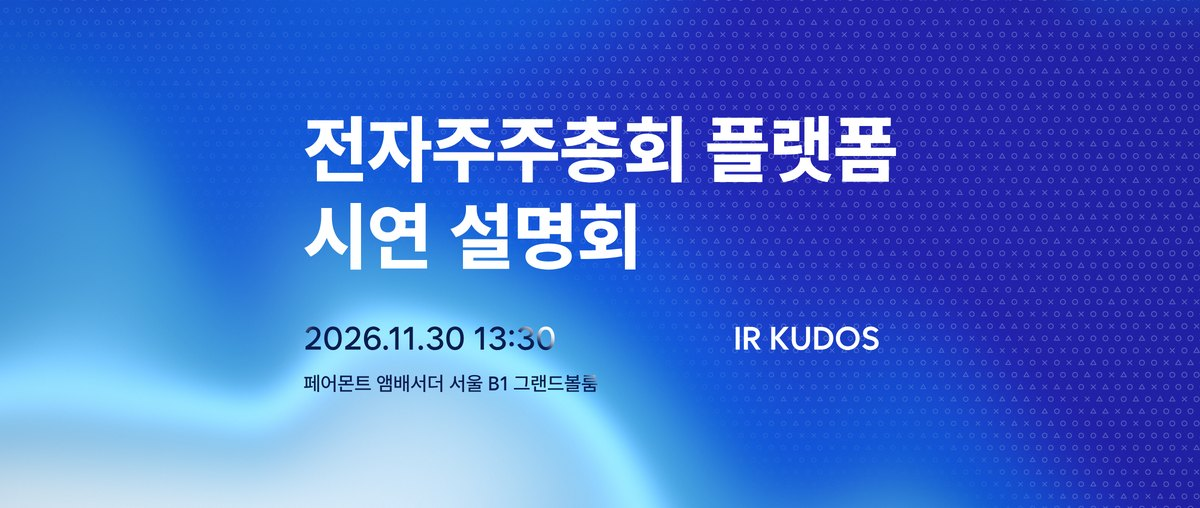
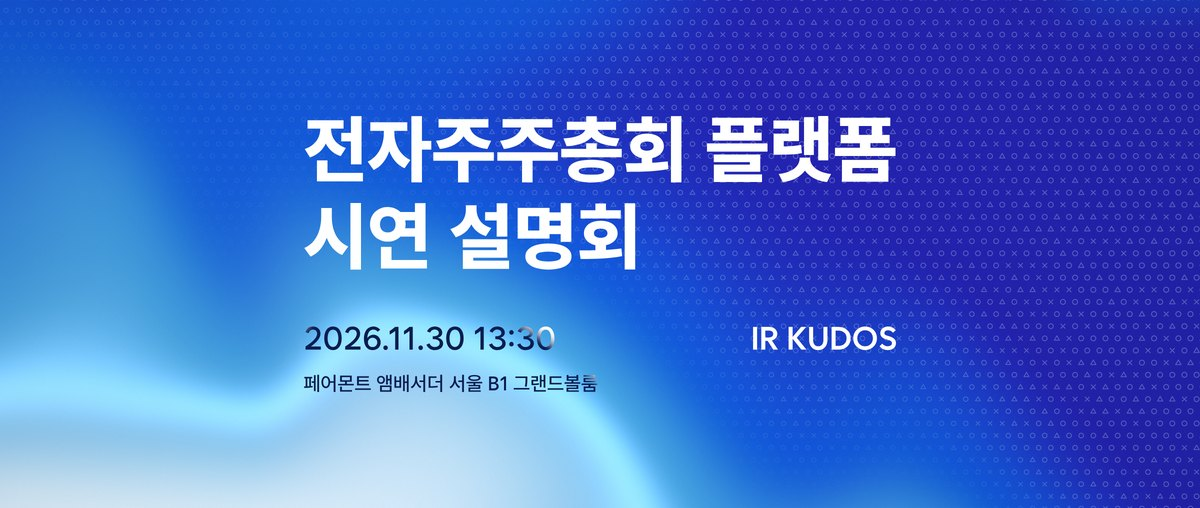
11.9 확인사항 반영: 신청 마감 11/27 18:00(서버 적용)·참가비 무료, 시연 범위(자동 계산·해외 주주·질의·발언·동의), 주주PASS 본인인증·NFC 등록 안내, 주차 지원 등록 안내, 발표자료 미배포, 운영자 취소 시 자동 메일 없음, 문의 메일 agm@, 타이틀 SVG 재교체
Claude-Session: https://claude.ai/code/session_01Mn7Nn1Mw9LaHJEmW4pK4Vg

diff --git a/index.html b/index.html
@@ -466,7 +466,7 @@ html.rg-lock{overflow:hidden}
   <section class="hero" aria-label="설명회 소개">
     <canvas id="glow" aria-hidden="true"></canvas>
     <div>
-      <h1 class="ttl"><img src="assets/title.svg?v=1109" width="566" height="264" alt="전자주주총회 플랫폼 시연 설명회 — 2026.11.30 13:30, 페어몬트 앰배서더 서울 지하 1층(B1) 그랜드볼룸, IR KUDOS"></h1>
+      <h1 class="ttl"><img src="assets/title.svg?v=1517" width="567" height="264" alt="전자주주총회 플랫폼 시연 설명회 — 2026.11.30 13:30, 페어몬트 앰배서더 서울 지하 1층(B1) 그랜드볼룸, IR KUDOS"></h1>
     </div>
   </section>
 
@@ -479,7 +479,7 @@ html.rg-lock{overflow:hidden}
         <p>IR큐더스가 전문가와 함께 개정 상법의 주요 내용과 전자주주총회 준비에 필요한 법률·실무 쟁점을 살펴봅니다.</p>
         <p>이어 주주명부와 의안 설정부터 출석 확인, 표결, 결과 집계까지 통합시스템의 운영 과정을 시연합니다. 참석자께서는 현장표결 앱 ‘주주PASS’를 활용해 모의 주주총회의 표결에 직접 참여하실 수 있습니다.</p>
       </div>
-      <p class="info"><span><b>일정</b>2026.11.30 (월) 13:30~18:00 (등록 13:00부터)</span><span><b>장소</b>페어몬트 앰배서더 서울 지하 1층(B1) 그랜드볼룸</span></p>
+      <p class="info"><span><b>일정</b>2026.11.30 (월) 13:30~18:00 (등록 13:00부터)</span><span><b>장소</b>페어몬트 앰배서더 서울 지하 1층(B1) 그랜드볼룸</span><span><b>신청 마감</b>11.27 (금) 18:00 · 참가비 무료</span></p>
       <div class="count" role="timer" aria-label="행사까지 남은 시간"><div><b id="cd-d">25</b><span>일</span></div><div><b id="cd-h">00</b><span>시간</span></div><div><b id="cd-m">00</b><span>분</span></div></div>
       <a class="btn" href="#register">사전등록하기</a>
     </div>
@@ -535,9 +535,9 @@ html.rg-lock{overflow:hidden}
         <p>모의 회사·주주·의안으로 주주총회 전 과정을 진행합니다.</p>
       </div>
       <ol class="stages">
-        <li><span class="st-n">01 사전 준비</span><h3>주주명부와 의안을 설정합니다</h3><ul><li>주주명부 등록, 주주별 의결권 확인</li><li>의안 설정</li><li>의결권 제한 반영</li></ul></li>
-        <li><span class="st-n">02 사전 의결권 관리</span><h3>사전 투표와 의결권 행사 현황을 관리합니다</h3><ul><li>의결권 대리행사 권유, 전자·서면투표 현황</li><li>중복 의결권 행사 점검</li><li>의결권 불통일행사 처리</li></ul></li>
-        <li><span class="st-n">03 총회 당일 운영</span><h3>현장과 온라인의 출석·표결·집계를 진행합니다</h3><ul><li>주주 본인·대리인 출석 확인</li><li>의안 상정과 표결 진행</li><li>결과 집계</li></ul></li>
+        <li><span class="st-n">01 사전 준비</span><h3>주주명부와 의안을 설정합니다</h3><ul><li>주주명부 등록, 주주별 의결권 확인</li><li>의안 설정</li><li>의결권 제한(3% 등) 자동 계산</li></ul></li>
+        <li><span class="st-n">02 사전 의결권 관리</span><h3>사전 투표와 의결권 행사 현황을 관리합니다</h3><ul><li>의결권 대리행사 권유, 전자·서면투표 현황</li><li>중복 의결권 행사 점검</li><li>의결권 불통일행사 처리</li><li>개인·법인·해외 주주의 참여</li></ul></li>
+        <li><span class="st-n">03 총회 당일 운영</span><h3>현장과 온라인의 출석·표결·집계를 진행합니다</h3><ul><li>주주 본인·대리인 출석 확인</li><li>의안 상정과 표결 진행</li><li>질의·발언·동의 처리</li><li>결과 집계</li></ul></li>
       </ol>
       <div class="tagbox">
         <p class="tagh">시연에서 살펴볼 주요 실무 사례</p>
@@ -551,7 +551,7 @@ html.rg-lock{overflow:hidden}
         </ul>
       </div>
       <div class="app">
-        <p><b>시연에 표결로 참여하세요</b>현장표결 앱 ‘주주PASS’를 미리 설치하시면 모의 주주총회의 표결에 직접 참여하실 수 있습니다.</p>
+        <p><b>시연에 표결로 참여하세요</b>현장표결 앱 ‘주주PASS’를 미리 설치하고 본인인증을 마쳐 주세요. 행사 당일 현장 안내 데스크에서 NFC 태그로 참석자 등록을 하시면 모의 주주총회의 표결에 직접 참여하실 수 있습니다.<small>설치나 인증에 문제가 있으면 현장 안내 데스크에서 도와드립니다.</small></p>
         <a class="btn btn--ghost" id="appLink" href="https://play.google.com/store/apps/details?id=com.irkudos.jujupass&amp;hl=ko&amp;gl=KR&amp;utm_source=apac_med" target="_blank" rel="noopener">주주PASS 설치하기<svg viewBox="0 0 24 24" fill="none" stroke="currentColor" stroke-width="2" stroke-linecap="round" stroke-linejoin="round" aria-hidden="true"><path d="M7 17 17 7M9 7h8v8"/></svg></a>
       </div>
     </div>
@@ -570,7 +570,7 @@ html.rg-lock{overflow:hidden}
 
   <section id="register">
     <div class="wrap reg">
-      <p class="reg__k">총 300명 · 기업별 최대 2명</p>
+      <p class="reg__k">총 300명 · 기업별 최대 2명 · 11.27(금) 18:00 마감</p>
       <p class="reg__big">사전등록</p>
       <p class="reg__p">신청서에 남겨주신 사전 질문은 질의응답 시간에 우선적으로 다룹니다.</p>
       <a class="btn" href="#register" id="formLink">사전등록하기</a>
@@ -578,10 +578,12 @@ html.rg-lock{overflow:hidden}
         <div><dt>참가 대상</dt><dd>전자주주총회 의무화 대상 상장회사의 주주총회·IR·법무 담당자<small class="fact-note">2027년 1월 1일부터 최근 사업연도 말 자산총액 2조 원 이상 상장회사 의무화</small></dd></div>
         <div><dt>정원</dt><dd>총 300명<small class="fact-note">정원에 도달하면 신청이 마감됩니다</small></dd></div>
         <div><dt>기업별 인원</dt><dd>최대 2명<small class="fact-note">신청 가능한 인원은 회사 검색 결과에서 확인하실 수 있습니다</small></dd></div>
+        <div><dt>참가비</dt><dd>무료</dd></div>
+        <div><dt>신청 마감</dt><dd>11월 27일(금) 18:00<small class="fact-note">정원에 도달하면 그 전에 마감됩니다</small></dd></div>
         <div><dt>진행 방식</dt><dd>행사장 직접 참석 (온라인 생중계·다시보기 없음)</dd></div>
         <div><dt>참석 확정</dt><dd>신청을 완료하면 참석이 확정되며, 신청 내역을 이메일로 보내드립니다</dd></div>
         <div><dt>입력 항목</dt><dd>소속 회사, 이름, 부서·직급, 휴대폰, 이메일 (필수) · 사전 질문 (선택)</dd></div>
-        <div><dt>문의</dt><dd><a href="mailto:seminar@irkudos.co.kr">seminar@irkudos.co.kr</a> · <a href="tel:02-6011-2000">02-6011-2000</a></dd></div>
+        <div><dt>문의</dt><dd><a href="mailto:agm@irkudos.co.kr">agm@irkudos.co.kr</a> · <a href="tel:02-6011-2000">02-6011-2000</a></dd></div>
       </dl>
       <h3 class="guide-h" id="guide">신청부터 행사 참석까지</h3>
       <p class="guide-p">별도의 입장권이나 QR코드는 준비하지 않으셔도 됩니다.</p>
@@ -591,7 +593,7 @@ html.rg-lock{overflow:hidden}
         <li><h4>현장 등록 및 입장</h4><p>행사 당일 오후 1시부터 지하 1층 등록 데스크에서 성함과 소속을 말씀해 주세요. 확인 후 명찰을 드립니다.</p></li>
         <li><h4>프로그램 참여</h4><p>전문가 강연과 플랫폼 시연에 참석하시고, 모의 표결과 질의응답에 참여하실 수 있습니다.</p></li>
       </ol>
-      <p class="guide-p guide-after">행사 종료 후 참석자께 발표자료와 설문 참여 안내를 이메일로 보내드립니다.</p>
+      <p class="guide-p guide-after">행사 종료 후 참석자께 설문 참여 안내를 이메일로 보내드립니다.</p>
     </div>
   </section>
 
@@ -605,7 +607,7 @@ html.rg-lock{overflow:hidden}
           <dl class="ways">
             <div><dt>주소</dt><dd><span id="addr">서울특별시 영등포구 여의대로 108</span><button class="copy" id="copyAddr" type="button">주소 복사</button></dd></div>
             <div><dt>지하철</dt><dd>5·9호선 여의도역 인근</dd></div>
-            <div><dt>주차</dt><dd>페어몬트 호텔 주차장 이용 시 주차 지원<small class="fact-note">연결된 더현대 서울 주차장은 지원 대상에 포함되지 않습니다</small></dd></div>
+            <div><dt>주차</dt><dd>페어몬트 호텔 주차장 이용 시 주차 지원<small class="fact-note">현장 등록 데스크에서 주차 지원을 등록해 주세요. 연결된 더현대 서울 주차장은 지원되지 않습니다</small></dd></div>
           </dl>
           <div class="maplinks">
             <a class="btn btn--ghost" href="https://map.naver.com/p/search/%ED%8E%98%EC%96%B4%EB%AA%AC%ED%8A%B8%20%EC%95%B0%EB%B0%B0%EC%84%9C%EB%8D%94%20%EC%84%9C%EC%9A%B8" target="_blank" rel="noopener">네이버 지도</a>
@@ -621,15 +623,15 @@ html.rg-lock{overflow:hidden}
       <div class="sec-h"><h2>자주 묻는 질문</h2></div>
       <div class="faq">
         <details><summary>입장권이나 QR코드를 준비해야 하나요?</summary><p>별도의 입장권이나 QR코드는 준비하지 않으셔도 됩니다. 현장 등록 데스크에서 사전등록하신 성함과 소속을 확인한 뒤 명찰을 드립니다.</p></details>
-        <details><summary>참가 정원은 몇 명인가요?</summary><p>총 300명까지 신청을 받으며, 정원에 도달하면 접수가 마감됩니다. 신청을 완료한 순서대로 참석이 확정됩니다.</p></details>
-        <details><summary>기업별로 몇 명까지 신청할 수 있나요?</summary><p>기업별로 최대 2명까지 신청하실 수 있습니다. 신청 가능한 인원은 회사 검색 결과에서 확인하실 수 있으며, 신청과 관련해 도움이 필요하시면 seminar@irkudos.co.kr로 문의해 주세요.</p></details>
-        <details><summary>소속 회사가 검색되지 않으면 어떻게 하나요?</summary><p>이번 설명회는 전자주주총회 의무화 대상 상장회사(최근 사업연도 말 자산총액 2조 원 이상)를 대상으로 하며, 대상 기업만 검색됩니다. 대상 기업인데 검색되지 않으면 seminar@irkudos.co.kr로 문의해 주세요.</p></details>
-        <details><summary>신청 취소나 참석자 변경은 어떻게 하나요?</summary><p>신청 취소는 등록 안내 이메일의 취소 링크에서 진행하실 수 있습니다. 참석자 변경이 필요하시면 seminar@irkudos.co.kr로 문의해 주세요.</p></details>
+        <details><summary>참가 정원과 신청 마감은 어떻게 되나요?</summary><p>총 300명까지 신청을 받으며, 11월 27일(금) 18:00에 신청이 마감됩니다. 그 전에 정원에 도달하면 접수가 마감되며, 신청을 완료한 순서대로 참석이 확정됩니다. 참가비는 무료입니다.</p></details>
+        <details><summary>기업별로 몇 명까지 신청할 수 있나요?</summary><p>기업별로 최대 2명까지 신청하실 수 있습니다. 신청 가능한 인원은 회사 검색 결과에서 확인하실 수 있으며, 신청과 관련해 도움이 필요하시면 agm@irkudos.co.kr로 문의해 주세요.</p></details>
+        <details><summary>소속 회사가 검색되지 않으면 어떻게 하나요?</summary><p>이번 설명회는 전자주주총회 의무화 대상 상장회사(최근 사업연도 말 자산총액 2조 원 이상)를 대상으로 하며, 대상 기업만 검색됩니다. 대상 기업인데 검색되지 않으면 agm@irkudos.co.kr로 문의해 주세요.</p></details>
+        <details><summary>신청 취소나 참석자 변경은 어떻게 하나요?</summary><p>신청 취소는 등록 안내 이메일의 취소 링크에서 진행하실 수 있습니다. 참석자 변경이 필요하시면 agm@irkudos.co.kr로 문의해 주세요.</p></details>
         <details><summary>사전 질문이나 현장 질문은 어떻게 하나요?</summary><p>신청서에 궁금하신 내용을 남겨주세요. 사전 질문은 질의응답 시간에 우선적으로 다루며, 현장에서도 질문하실 수 있습니다.</p></details>
-        <details><summary>온라인 생중계나 다시보기를 볼 수 있나요?</summary><p>이번 설명회는 행사장에서 직접 참석하시는 방식으로 진행됩니다. 온라인 생중계와 다시보기는 제공되지 않습니다. 행사 종료 후 참석자께 발표자료와 설문 참여 안내를 이메일로 보내드립니다.</p></details>
-        <details><summary>표결 시연에 참여하려면 무엇을 준비해야 하나요?</summary><p>현장표결 앱 ‘주주PASS’를 미리 설치하시면 모의 주주총회의 표결에 참여하실 수 있습니다.</p></details>
-        <details><summary>전자주주총회 도입 상담을 받을 수 있나요?</summary><p>전자주주총회 도입 상담을 원하시면 seminar@irkudos.co.kr로 문의해 주세요. 담당자가 연락드려 상담 일정과 방법을 안내해 드립니다.</p></details>
-        <details><summary>주차 지원은 어떻게 받을 수 있나요?</summary><p>행사 참석 시 페어몬트 호텔 주차장을 이용해 주세요. 주차 지원은 호텔 주차장 이용 차량에 적용되며, 더현대 서울 주차장은 지원 대상에 포함되지 않습니다.</p></details>
+        <details><summary>온라인 생중계나 다시보기를 볼 수 있나요?</summary><p>이번 설명회는 행사장에서 직접 참석하시는 방식으로 진행됩니다. 온라인 생중계와 다시보기, 발표자료는 제공되지 않습니다.</p></details>
+        <details><summary>표결 시연에 참여하려면 무엇을 준비해야 하나요?</summary><p>현장표결 앱 ‘주주PASS’를 미리 설치하고 본인인증을 마쳐 주세요. 행사 당일 현장 안내 데스크에서 NFC 태그로 참석자 등록을 하시면 모의 주주총회의 표결에 참여하실 수 있습니다. 설치나 인증에 문제가 있으면 현장 안내 데스크에서 도와드립니다.</p></details>
+        <details><summary>전자주주총회 도입 상담을 받을 수 있나요?</summary><p>전자주주총회 도입 상담을 원하시면 agm@irkudos.co.kr로 문의해 주세요. 담당자가 연락드려 상담 일정과 방법을 안내해 드립니다.</p></details>
+        <details><summary>주차 지원은 어떻게 받을 수 있나요?</summary><p>행사 참석 시 페어몬트 호텔 주차장을 이용하시고, 현장 등록 데스크에서 주차 지원을 등록해 주세요. 주차 지원은 페어몬트 호텔 주차장 이용 차량에만 적용되며, 더현대 서울 주차장은 지원되지 않습니다.</p></details>
       </div>
     </div>
   </section>
@@ -654,7 +656,7 @@ html.rg-lock{overflow:hidden}
       <p class="ft__name">전자주주총회 플랫폼 시연 설명회</p>
     </div>
     <div class="legal">
-      <span>문의 <a href="mailto:seminar@irkudos.co.kr">seminar@irkudos.co.kr</a></span>
+      <span>문의 <a href="mailto:agm@irkudos.co.kr">agm@irkudos.co.kr</a></span>
       <span>대표번호 <a href="tel:02-6011-2000">02-6011-2000</a></span>
       <span>홈페이지 <a href="https://www.irkudos.co.kr" target="_blank" rel="noopener">www.irkudos.co.kr</a></span>
       <span>© 2026 IR KUDOS. All rights reserved.</span>
@@ -1128,7 +1130,7 @@ void main(){
 <script>
 /* ---------- 사전등록 모달 (Supabase) ---------- */
 (function(){
-  const API='https://zrhtqpzgubaqzsdaxhvt.supabase.co/rest/v1/rpc/',KEY='sb_publishable_JwET6KLGmdYBkOIIttgOOQ_HEpCKLar',CONTACT='seminar@irkudos.co.kr';
+  const API='https://zrhtqpzgubaqzsdaxhvt.supabase.co/rest/v1/rpc/',KEY='sb_publishable_JwET6KLGmdYBkOIIttgOOQ_HEpCKLar',CONTACT='agm@irkudos.co.kr';
   const rpc=(fn,body)=>fetch(API+fn,{method:'POST',headers:{apikey:KEY,'Content-Type':'application/json'},body:JSON.stringify(body||{})}).then(r=>{if(!r.ok)throw new Error(r.status);return r.json();});
   const dlg=document.getElementById('rg'),view=document.getElementById('rgView'),sub=document.getElementById('rgSub');
   const esc=s=>String(s==null?'':s).replace(/[&<>"]/g,c=>({'&':'&amp;','<':'&lt;','>':'&gt;','"':'&quot;'}[c]));
@@ -1162,7 +1164,7 @@ void main(){
       const [st,list]=await Promise.all([rpc('event_status'),rpc('list_companies')]);
       state=st;companies=list.map(c=>({...c,n:norm(c.name),ch:cho(norm(c.name))}));
       if(st.app_url){const a=document.getElementById('appLink');if(a)a.href=st.app_url;}
-      if(!st.open||st.remaining<=0){renderClosed();return;}
+      if(!st.open||st.remaining<=0){renderClosed(st);return;}
       sub.innerHTML=esc(SUB0)+' · 잔여 <b>'+st.remaining+'</b>석';
       const inp=formEl&&formEl.querySelector('#rgCo');
       if(inp){inp.disabled=false;inp.placeholder='회사명 또는 종목코드 검색';if(document.activeElement===inp)search();}
@@ -1203,7 +1205,7 @@ void main(){
   </fieldset>
   <div class="agree">
     <label class="ck"><input type="checkbox" name="agree_privacy" required><span>개인정보 수집·이용에 동의합니다 <i style="font-style:normal;color:var(--blue)">(필수)</i></span></label>
-    <details><summary>내용 보기</summary><div>수집 항목: 회사명, 이름, 부서, 직급, 휴대폰 번호, 이메일, 사전 질문(선택)<br>이용 목적: 설명회 참석 확정, 행사 안내 이메일 발송, 현장 본인 확인, 행사 후 발표자료·설문 안내<br>보유 기간: 행사 종료 후 6개월 이내 파기<br>동의를 거부할 수 있으며, 거부 시 사전등록이 제한됩니다.</div></details>
+    <details><summary>내용 보기</summary><div>수집 항목: 회사명, 이름, 부서, 직급, 휴대폰 번호, 이메일, 사전 질문(선택)<br>이용 목적: 설명회 참석 확정, 행사 안내 이메일 발송, 현장 본인 확인, 행사 후 설문 안내<br>보유 기간: 행사 종료 후 6개월 이내 파기<br>동의를 거부할 수 있으며, 거부 시 사전등록이 제한됩니다.</div></details>
     <span class="err" id="errAgree" hidden></span>
   </div>
   <div class="hp" aria-hidden="true"><label>홈페이지<input type="text" name="hp" tabindex="-1" autocomplete="off"></label></div>
@@ -1317,10 +1319,11 @@ void main(){
       ${summary(r)}</div></div>
       <div class="rg__ft"><button class="btn" type="button" data-close>확인</button></div>`;
   }
-  function renderClosed(){
+  function renderClosed(st){
     formEl=null;sub.textContent=SUB0;
+    const why=st&&st.deadline_passed?'11월 27일(금) 18:00에 신청이 마감되었습니다.':st&&st.remaining<=0?'총 300명 정원에 도달해 신청이 마감되었습니다.':'현재 신청을 받고 있지 않습니다.';
     view.innerHTML=`<div class="rg__bd"><div class="rg__done"><div class="ic warn">${ICON.info}</div>
-      <h3>참가 신청이 마감되었습니다</h3><p>총 300명 정원에 도달해 신청이 마감되었습니다. 문의는 ${CONTACT}로 보내주세요.</p></div></div>
+      <h3>참가 신청이 마감되었습니다</h3><p>${why} 문의는 ${CONTACT}로 보내주세요.</p></div></div>
       <div class="rg__ft"><button class="btn btn--ghost" type="button" data-close>닫기</button></div>`;
   }
 

diff --git a/admin/index.html b/admin/index.html
@@ -150,7 +150,6 @@ td.nw{white-space:nowrap}
       <p>칸을 벗어나면 저장됩니다. 비워 두면 해당 버튼·링크가 메일에서 빠집니다. 주주PASS 설치 링크는 사이트의 설치 버튼에도 같이 쓰입니다.</p>
       <label for="l_site_url">사이트 주소<input id="l_site_url" data-k="site_url" type="url" placeholder="https://"></label>
       <label for="l_app_android_url">주주PASS 설치<input id="l_app_android_url" data-k="app_android_url" type="url" placeholder="기기별 자동 연결 URL (추후 등록)"></label>
-      <label for="l_slides_url">발표자료 (감사 메일)<input id="l_slides_url" data-k="slides_url" type="url" placeholder="추후 등록"></label>
       <label for="l_survey_url">설문 (감사 메일)<input id="l_survey_url" data-k="survey_url" type="url" placeholder="추후 등록"></label>
     </form>
     <div class="tw" id="tw"></div>
@@ -306,8 +305,7 @@ td.nw{white-space:nowrap}
       if(error){toast(error.message,true);tr.querySelectorAll('button,select').forEach(x=>x.disabled=false);return;}
       toast(`${r.name}님 반려 처리했습니다 (${RJ[reason]})`);load(true);return;
     }
-    const mail=a==='approved'?'등록 완료 메일':a==='rejected'?'반려 안내 메일':'취소 안내 메일';
-    if(!confirm(`${r.company_name} ${r.name}님을 ${LABEL[a]} 처리할까요?\n신청자에게 ${mail}이 발송됩니다.`))return;
+    if(!confirm(`${r.company_name} ${r.name}님의 참석을 ${LABEL[a]}할까요?\n자동 메일은 발송되지 않습니다. 사유는 신청자에게 직접 안내해 주세요.`))return;
     tr.querySelectorAll('button').forEach(x=>x.disabled=true);
     const {error}=await sb.from('registrations').update({status:a}).eq('id',r.id);
     if(error){toast(error.message,true);tr.querySelectorAll('button').forEach(x=>x.disabled=false);return;}
@@ -343,7 +341,7 @@ td.nw{white-space:nowrap}
     }
     if(e.target.id==='thanksNow'){
       const n=rows.filter(r=>r.status==='confirmed'&&r.attended&&!r.thanked_at).length;
-      const miss=[!settings.slides_url&&'발표자료',!settings.survey_url&&'설문'].filter(Boolean);
+      const miss=[!settings.survey_url&&'설문'].filter(Boolean);
       if(!confirm(`현장 참석자 ${n}명에게 참석 감사 메일을 보낼까요?`+(miss.length?`\n\n${miss.join('·')} 링크가 비어 있어 메일에서 빠집니다.`:'')+'\n한 사람에게 한 번만 발송됩니다.'))return;
       const {data,error}=await sb.rpc('admin_send_thanks');
       error?toast(error.message,true):(toast(`참석 감사 메일 ${data}건 발송을 요청했습니다`),load(true));
